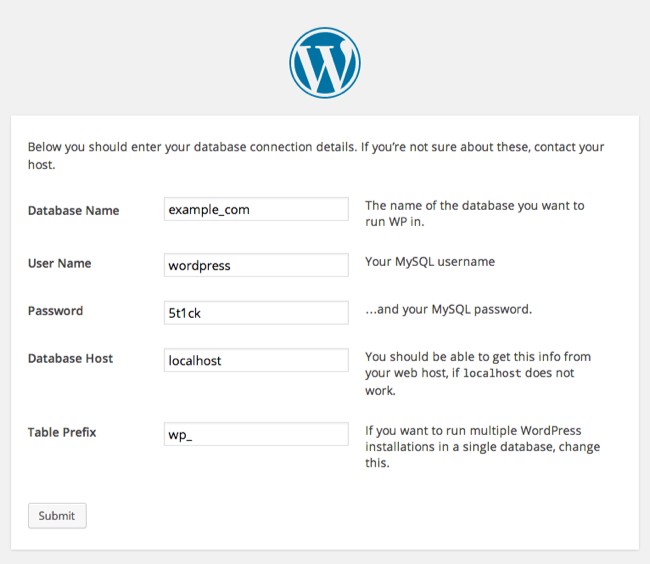
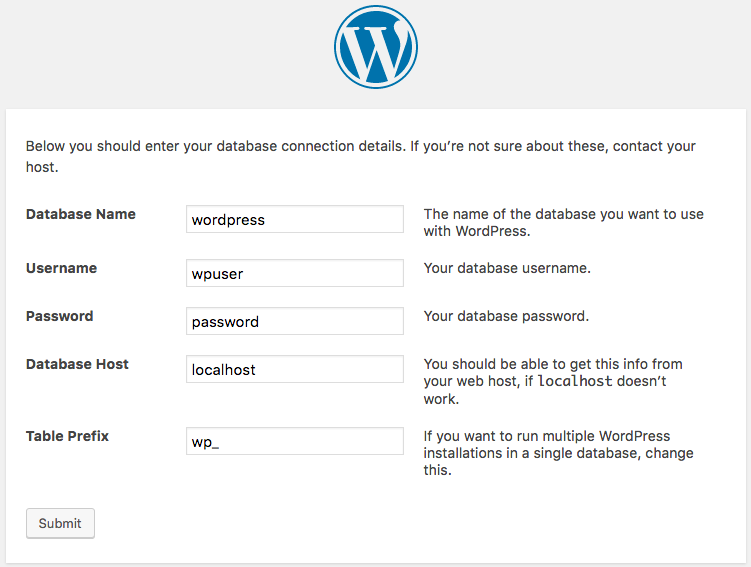
installing wordpress on ubuntu 16
mend

diff --git a/docs/websites/cms/how-to-install-and-configure-wordpress-on-ubuntu-16-04.md b/docs/websites/cms/how-to-install-and-configure-wordpress-on-ubuntu-16-04.md
@@ -1,0 +1,170 @@
+---
+author:
+  name: Edward Angert
+  email: docs@linode.com
+description: 'Install and optimize the WordPress blogging and content management system on your Linode.'
+keywords: 'install WordPress,WordPress on Linode,WordPress how-to,how to install wordpress,how to configure wordpress,ubuntu 16.04'
+license: '[CC BY-ND 4.0](https://creativecommons.org/licenses/by-nd/4.0)'
+modified: Friday, October 21, 2016
+modified_by:
+  name: Edward Angert
+published: 'Friday, October 21, 2016'
+title: How to Install and Configure WordPress on Ubuntu 16.04
+external_resources:
+- '[WordPress.org](http://wordpress.org)'
+- '[WordPress Codex](http://codex.wordpress.org)'
+- '[WordPress Support](http://wordpress.org/support)'
+---
+
+WordPress is a popular, dynamic, blog-focused content management system. WordPress can be deployed on a LAMP or LEMP stack, and features an extensive plugin framework and theme system which allows site owners and developers to utilize easy-to-use and powerful publishing tools.
+
+{: .note}
+>
+>This guide is written for a non-root user. Commands that require elevated privileges are prefixed with `sudo`. If you're not familiar with the `sudo` command, you can check our [Users and Groups](/docs/tools-reference/linux-users-and-groups) guide.
+>All configuration files should be edited with elevated privileges. Remember to include `sudo` before running your editor-of-choice.
+>
+>Replace each instance of `example.com` in this guide with your site's domain name.
+
+## Before You Begin
+
+-  Ensure that you have followed the [Getting Started](/docs/getting-started) and [Securing Your Server](/docs/security/securing-your-server) guides, and that the Linode's [hostname is set](/docs/getting-started#setting-the-hostname).
+
+    To check your hostname run:
+
+        hostname
+        hostname -f
+
+    The first command will output your short hostname; the second, your fully-qualified domain name (FQDN).
+
+-  Configure a [LAMP](/docs/websites/lamp/) or [LEMP](/docs/websites/lemp/) web stack and confirm that is configured properly.
+
+-  Ensure that MySQL has a database set up for WordPress. If you do not have a WordPress database, create one:
+
+    1.  Enter the MySQL command line:
+
+            mysql -u root -p
+
+    2.  Create the WordPress database:
+
+            CREATE DATABASE wordpress;
+
+    3.  Create a user and grant them privileges for the newly-created `wordpress` database, replacing `wpuser` and `password` with the username and password you wish to use:
+
+            CREATE USER 'wpuser' IDENTIFIED BY 'password';
+            GRANT ALL PRIVILEGES ON wordpress.* TO 'wpuser';
+
+    4.  Exit MySQL:
+
+            quit
+
+## Install WordPress
+
+1.  Create an `src` directory under your website's directory to store fresh copies of WordPress's source files. In this guide, the home directory `/var/www/html/example.com/` is used as an example. Navigate to that new directory:
+
+        sudo mkdir /var/www/html/example.com/src/
+        cd /var/www/html/example.com/src/
+
+2.  Set your web server's user as the owner of your site's directory:
+
+        sudo chown -R www-data:www-data /var/www/html/example.com/
+
+3.  Install the latest version of WordPress and expand it:
+
+        sudo wget http://wordpress.org/latest.tar.gz
+        sudo -u www-data tar -xvf latest.tar.gz
+
+4.  Move `latest.tar.gz`, so it is renamed `wordpress` followed by the date to store a backup of the original source files:
+
+        sudo mv latest.tar.gz wordpress-`date "+%Y-%m-%d"`.tar.gz
+
+5.  Move the WordPress files to your `public_html` folder:
+
+        sudo mv wordpress/* ../public_html/
+
+6.  Give WordPress permission to add and edit files in the `public_html` folder:
+
+        sudo chown -R www-data:www-data /var/www/html/example.com/public_html
+
+## Configure WordPress
+
+1.  Visit your domain in your web browser and follow the steps outlined by the configuration process. Select your preferred language,  review the informational page and click the **Let's go!** button. Supply WordPress with the database credentials established when you installed the database server:
+
+    ![WordPress Installer](/docs/assets/wordpress-setup_small.png)
+
+    WordPress will test the credentials, and if successful will prompt you to "Run the install"
+
+2. Fill out the administration information and click "Install WordPress"
+
+    ![WordPress Administrative Information](/docs/assets/wordpress-installation-screen01.png)
+
+    Click **Log In** to log in and continue to the WordPress Admin Area
+
+3.  As currently configured, WordPress will prompt you for FTP information when you install new themes or plugins. To bypass this, modify `wp-config.php` by adding the following lines:
+
+    {: .file-excerpt}
+    /var/www/html/example.com/public_html/wp-config.php
+    :   ~~~ php
+        /** Bypass FTP */
+        define('FS_METHOD', 'direct');
+        ~~~
+
+4.  If using Apache, issue the following commands to ensure that `mod_rewrite` is enabled and restart Apache to set the changes:
+
+        sudo a2enmod rewrite
+        sudo systemctl restart apache2
+
+5.  You can continue the configuration of your WordPress site from the web-based interface, available by adding `/wp-admin` to your URL: `example.com/wp-admin`
+
+Congratulations! You have now successfully installed WordPress.
+
+## WordPress Permalinks
+
+*Permalink* is a portmanteau of the words *permanent* and *link*. Permalinks are links that are automatically created to specific posts or pages in WordPress. WordPress defaults to assigning post numbers as permalinks, meaning that a link to a specific post would look like `example.com/?p=42`. To enforce a "prettier" permalink format, you'll need to make a few adjustments to Apache or nginx.
+
+For more information on permalinks, visit the [WordPress guide on permalinks](https://codex.wordpress.org/Using_Permalinks).
+
+To configure permalink settings:
+
+1.  Log in to the WordPress admin panel through your site's `/wp-admin`
+
+2.  Mouseover **Settings** in the left-hand menu, then click **Permalinks**:
+
+    ![Wordpress Settings Permalinks](../../assets/wordpress-settings-permalinks.png)
+
+3.  Select your preferred permalink style or create your own *Custom Structure* and click **Save Changes**
+
+4.  Configure your webserver to allow WordPress to create the customized URLs:
+
+### Configure WordPress to Allow Permalinks on Apache
+
+Update Apache to allow individual sites to update the `.htaccess` file. To permit this, add the following to your WordPress website's *VirtualHosts* codeblock:
+
+{: .file-excerpt}
+/etc/apache2/sites-available/example.com.conf
+:   ~~~ apache
+    <VirtualHost *:80>
+        ...
+
+        <Directory /var/www/html/example.com/public_html>
+            Options Indexes FollowSymLinks
+            AllowOverride All
+            Require all granted
+        </Directory>
+    </VirtualHost>
+    ~~~
+
+ Restart Apache to enable the changes:
+ 
+     sudo systemctl restart apache2
+
+### Configure WordPress to Allow Permalinks on nginx
+
+Nginx needs to be directed to check if the page each permalink refers to exists. By default, nginx assumes that it doesn't, and returns a server-side 404. Update the `location / {` block in your virtual host configuration to match the following:
+
+{: .file-excerpt}
+/etc/nginx/sites-available/example.com
+:   ~~~ nginx
+    location / {
+        index index.php index.html index.htm;
+        try_files $uri $uri/ /index.php?$args;
+    ~~~
